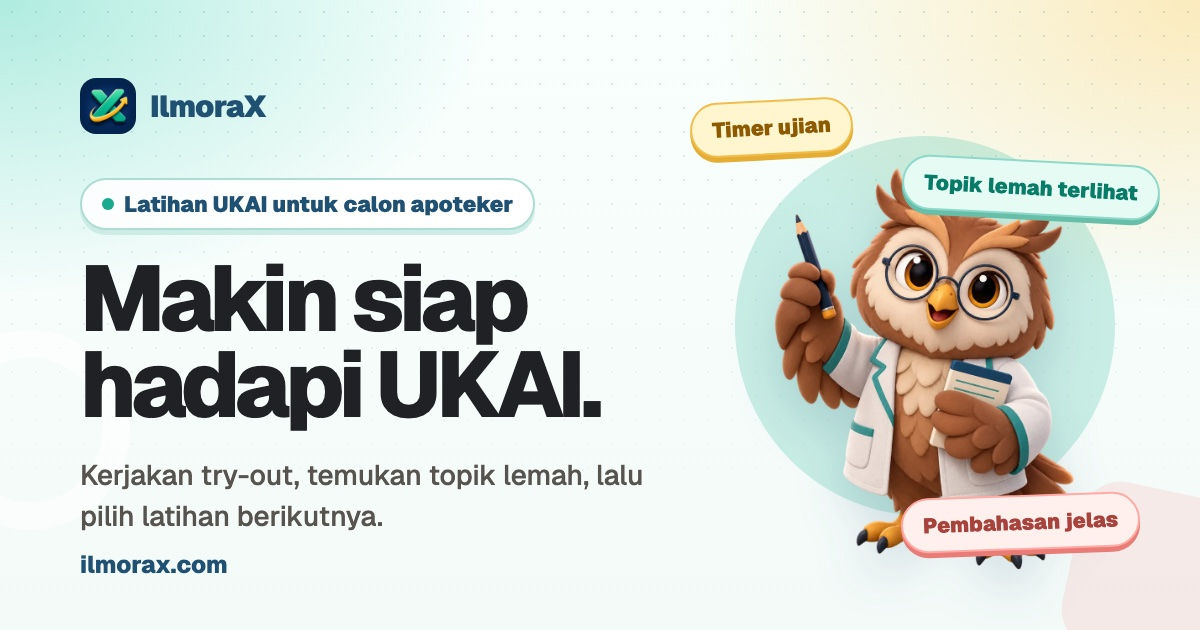
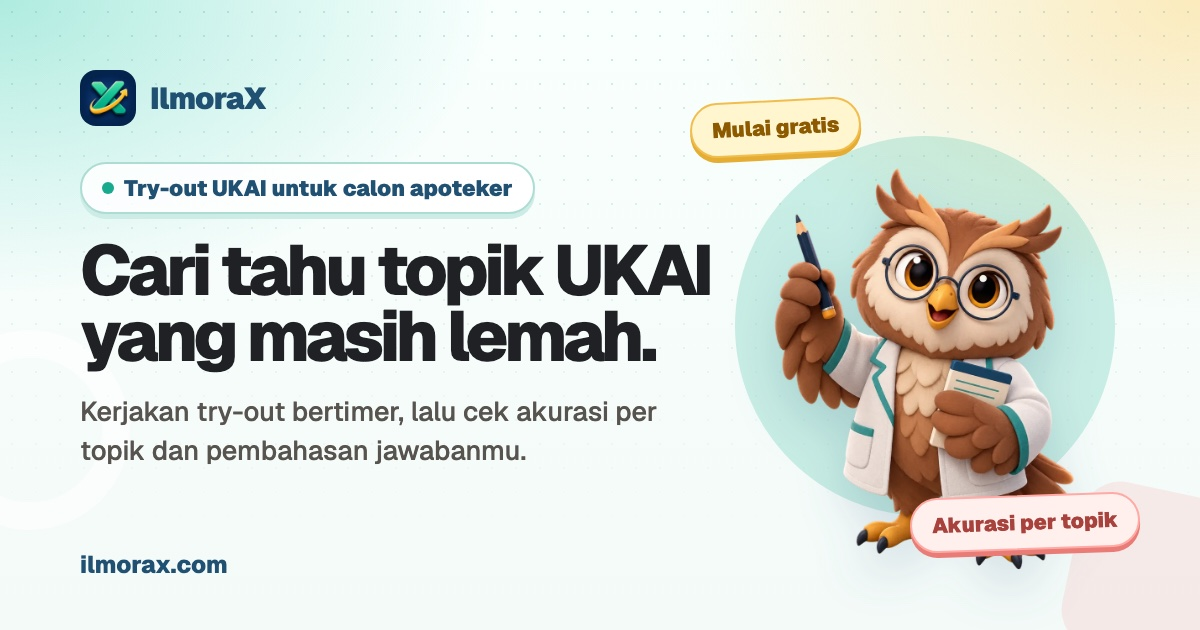
Make landing hero and share image say what IlmoraX does (#36)
- Headline now names the product's job: finding weak UKAI topics
- Badges show concrete facts (free start, accuracy per topic)
- Fix hero overflowing the screen on phones

diff --git a/src/features/landing/landing-page.tsx b/src/features/landing/landing-page.tsx
@@ -13,6 +13,7 @@ import {
   BookOpenIcon,
   CheckCircleIcon,
   ClockIcon,
+  GiftIcon,
   SparkIcon,
   TargetIcon,
 } from "./landing-icons";
@@ -127,17 +128,17 @@ function HeroSection() {
       <div className="pointer-events-none absolute -left-20 top-28 h-48 w-48 rounded-full border-[28px] border-white/45" />
       <div className="pointer-events-none absolute -right-14 bottom-10 h-36 w-36 rotate-12 rounded-[36px] bg-[#ff8c87]/15" />
 
-      <div className="relative mx-auto grid w-full max-w-[1180px] items-center gap-12 lg:grid-cols-[1.04fr_0.96fr] lg:gap-16">
+      <div className="relative mx-auto grid w-full max-w-[1180px] grid-cols-1 items-center gap-12 lg:grid-cols-[1.04fr_0.96fr] lg:gap-16">
         <Reveal>
           <div className="inline-flex items-center gap-2 rounded-full border border-[#acdcd2] bg-white/80 px-3.5 py-2 text-[12px] font-black text-[var(--brand-primary)] shadow-[0_5px_0_#cdece5] backdrop-blur-sm">
             <span className="text-[#18aa8e]"><SparkIcon /></span>
-            Latihan UKAI untuk calon apoteker
+            Try-out UKAI untuk calon apoteker
           </div>
-          <h1 className="mt-5 max-w-[12ch] text-[clamp(3rem,6vw,5.4rem)] font-[780] leading-[0.92] tracking-[-0.055em]">
-            Makin siap hadapi UKAI.
+          <h1 className="mt-5 max-w-[15ch] text-[clamp(2.75rem,5.2vw,4.75rem)] font-[780] leading-[0.92] tracking-[-0.055em]">
+            Cari tahu topik UKAI yang masih lemah.
           </h1>
           <p className="mt-6 max-w-[34ch] text-[17px] leading-[1.7] text-stone-600 sm:text-[18px]">
-            Kerjakan try-out, temukan topik lemah, lalu pilih latihan berikutnya.
+            Kerjakan try-out bertimer, lalu cek akurasi per topik dan pembahasan jawabanmu.
           </p>
           <div className="mt-8 flex flex-col gap-3 sm:flex-row">
             <TryoutLink entryPoint="hero_primary">Lihat try-out</TryoutLink>
@@ -147,15 +148,12 @@ function HeroSection() {
 
         <Reveal className="relative lg:justify-self-end">
           <div className="relative mx-auto w-full max-w-[540px] px-1 py-10 sm:px-8 sm:py-12">
-            <FloatingBadge className="left-0 top-8 -rotate-3" tone="amber" icon={<ClockIcon />}>
-              Timer ujian
-            </FloatingBadge>
-            <FloatingBadge className="right-0 top-16 rotate-3" tone="mint" icon={<TargetIcon />}>
-              Topik lemah terlihat
+            <FloatingBadge className="left-0 top-8 -rotate-3" tone="amber" icon={<GiftIcon />}>
+              Mulai gratis
             </FloatingBadge>
             <MascotHeroVisual />
-            <FloatingBadge className="bottom-5 right-4 -rotate-2" tone="coral" icon={<BookOpenIcon />}>
-              Pembahasan jelas
+            <FloatingBadge className="bottom-5 right-4 -rotate-2" tone="coral" icon={<TargetIcon />}>
+              Akurasi per topik
             </FloatingBadge>
           </div>
         </Reveal>

diff --git a/src/routes/__root.tsx b/src/routes/__root.tsx
@@ -18,7 +18,7 @@ const SITE_NAME = "IlmoraX";
 const DEFAULT_TITLE = "IlmoraX | Try-out UKAI untuk Calon Apoteker";
 const DEFAULT_DESCRIPTION = "Latihan soal UKAI dengan timer, pembahasan, dan analisis hasil untuk membantu calon apoteker menentukan materi yang perlu dipelajari lagi.";
 const OG_IMAGE_URL = `${SITE_URL}/og-image.jpg`;
-const OG_IMAGE_ALT = "IlmoraX: Makin siap hadapi UKAI. Maskot burung hantu apoteker dengan timer ujian, topik lemah, dan pembahasan.";
+const OG_IMAGE_ALT = "IlmoraX: Cari tahu topik UKAI yang masih lemah. Try-out bertimer dengan akurasi per topik dan pembahasan jawaban.";
 
 export const Route = createRootRoute({
   beforeLoad: async ({ location }) => {
